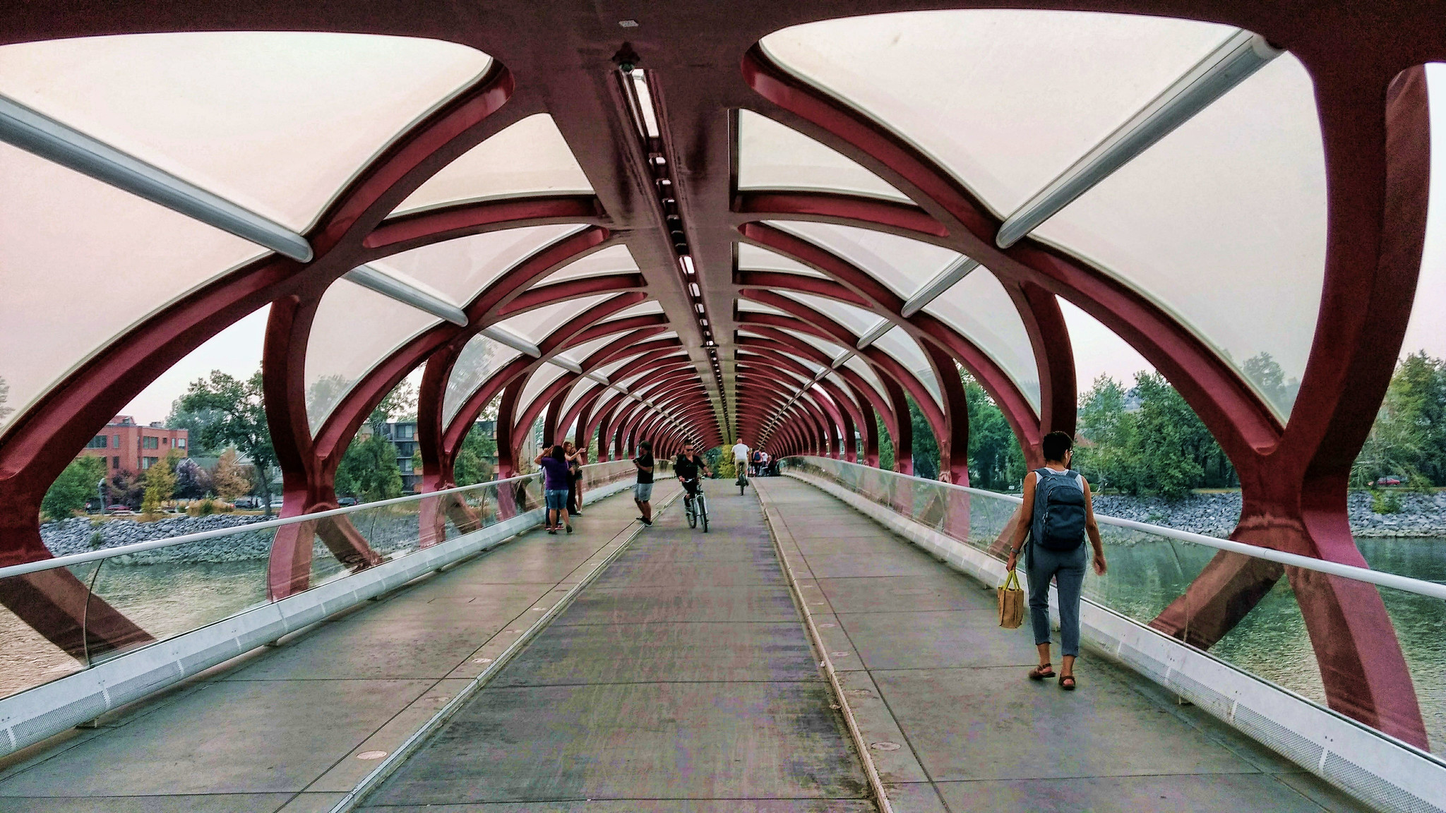
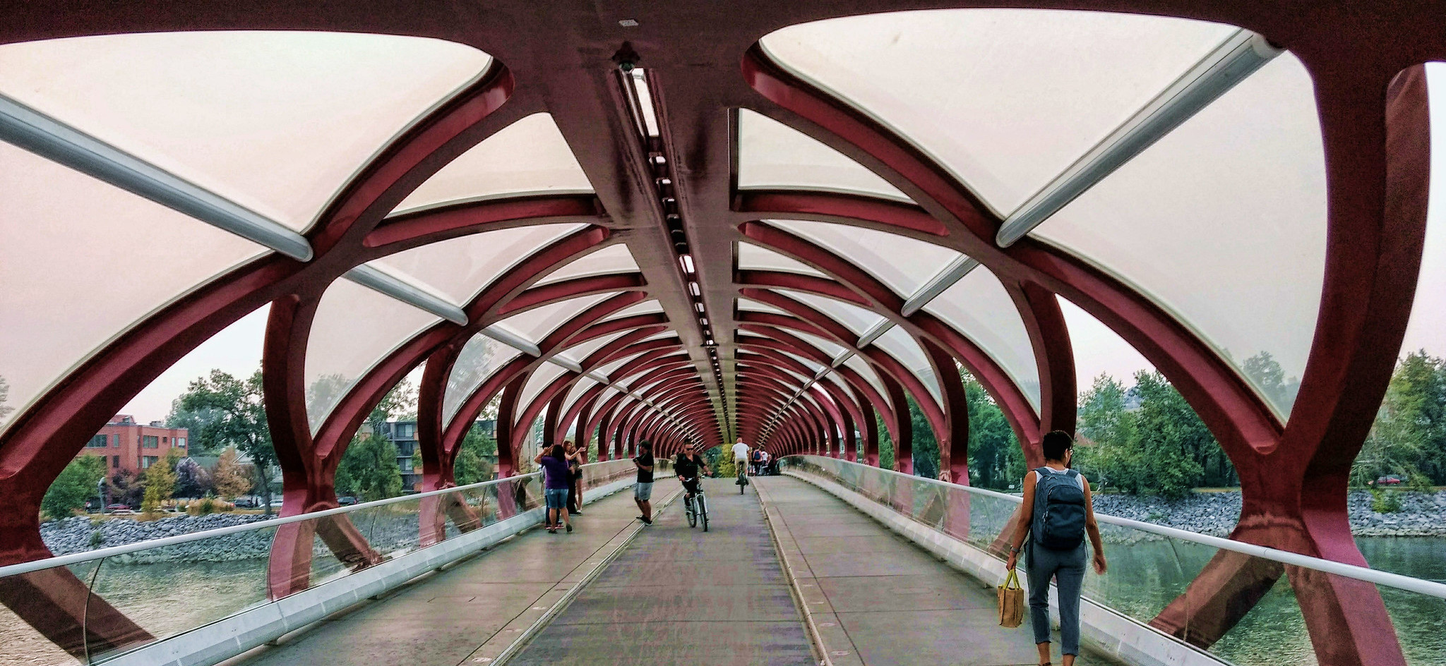
adjusted picture sizes

diff --git a/transitions.html b/transitions.html
@@ -65,9 +65,9 @@
 
 	<div class="vcenterparent">
 		<div class="jumbotron vcenter tinted parallax headerimage"
-			style="background-image:url('images/peacebridge.jpg')">
+			style="background-image:url('images/peacebridge3.jpg')">
 			<div class="col-xxs-6 col-xs-4 col-sm-2"><img src="" class="img-responsive" /></div>
-			<h2 class="hidden-xxs">Transitions</h2>
+			<h2 class="hidden-xxs">Transitions in Diabetes</h2>
 		</div>
 	</div>
 
@@ -85,9 +85,8 @@
 						support. In the winter quarter of 2020, 19 UCSD students explored how to support Dexcom users in these
 						critical moments. They interviewed people with diabetes, mapped their experience and developed new and
 						innovative
-						solutions for the uncovered issues.
+						solutions for the uncovered issues in an 8 week sprint.
 					</p>
-
 
 				</div>
 			</div>
@@ -98,103 +97,105 @@
 		<div class="container">
 			<h5><strong>Teams</strong> </h5>
 
-			<div id="grid" class="grid" style="position: relative; height: 1060px;">
-				<div class="grid-sizer col-xxs-12 col-xs-6 col-md-4"></div>
+			<div id="grid" class="grid">
+			<!-- style="position: relative; height: 1060px;"> -->
+				<div class="grid-sizer col-xxs-12 col-xs-6 col-md-2"></div>
 				<div class="row">
 
-					<div class="grid-item col-xxs-12 col-xs-6 col-md-4">
-						<div class="tall">
-							<div class="box">
-								<div class="square">
-									<div class="box">
-										<img src="images/travel.jpg" class="img-responsive">
-									</div>
-								</div>
-								<div class="caption">
-									<h4>Supplies on the spot</h4>
-									<p>How might we support travelers to find supplies when unexpected events occur?<br><br><span>Stephanie Kim, Braeanne Oribello, Rishabh Singhal, Rou Zhang</span>
-									</p>
-
-								</div>
-							</div>
-							<div class="overlay_white"></div>
-							</a>
-						</div>
-					</div>
-
-					<div class="grid-item col-xxs-12 col-xs-6 col-md-4">
-						<div class="tall">
-							<div class="box">
-								<div class="square">
-									<div class="box">
-										<img src="images/advocate.jpg" class="img-responsive">
-									</div>
-								</div>
-								<div class="caption">
-									<h4>CGM Advocate</h4>
-									<p>How might we empower students with T1D in the classroom while strengthening the relationship between Dexcom and College Diabetes Network? 
-										<br><br><span>Tiffany Do, Michelle Duong, Peter Xu, Angela Zhu</span>
-									</p>
-
-								</div>
-							</div>
-							<div class="overlay_white"></div>
-							</a>
-
-						</div>
-
-					</div>
-
 					
-					
+
 					<div class="grid-item col-xxs-12 col-xs-6 col-md-4 mb-2">
-						<div class="tall">
-							<div class="box">
-								<div class="square">
-									<div class="box">
-										<img src="images/camp.jpg" class="img-responsive">
-									</div>
-								</div>
-								<div class="caption">
-									<h4>"I’m on it"</h4>
-									<p>
-										How might we improve care coordination at camp?
-										<br><br><span>Stacy Kim, Steven Lou, Aaron Truong, Fiona Wong</span>
-									</p>
-
-								</div>
+						<div class="card">
+							
+							<div class="card-title">
+								<h4>Supplies on the spot</h4>
 							</div>
-							<div class="overlay_white"></div>
-							</a>
-						</div>
-					</div>
-
-					<div class="grid-item col-xxs-12 col-xs-6 col-md-4">
-						<div class="tall">
-							<div class="box">
-								<div class="square">
-									<div class="box">
-										<img src="images/mindthegap.jpg" class="img-responsive">
-									</div>
-								</div>
-								<div class="caption">
-									<h4>Mind the Gap</h4>
-									<p>
-										How might we help people manage signal loss? 
-										<br><br><span>Amy An, Neve Foresti, Adam Gomez</span>
-
-									</p>
-
-								</div>
+							<img class="img-responsive" src="images/travel.jpg" alt="Card image cap">
+							<div class="card-body">
+							  <p class="card-text">How might we support travelers to find supplies when unexpected events occur?</p>
 							</div>
-							<div class="overlay_white"></div>
-							</a>
-
+							<div class="card-footer">
+								Stephanie Kim, Braeanne Oribello, Rishabh Singhal, Roy Zhang
+							</div>
 						</div>
-
+						
 					</div>
 
 
+					<div class="grid-item col-xxs-12 col-xs-6 col-md-4 mb-2">
+						<div class="card">
+							
+							<div class="card-title">
+								<h4>CGM Advocate</h4>
+							</div>
+							<img class="img-responsive" src="images/advocate.jpg" alt="Card image cap">
+							<div class="card-body">
+							  <p class="card-text">How might we empower students with a Dexcom CGM in the classroom?</p>
+							</div>
+							<div class="card-footer">
+								Tiffany Do, Michelle Duong, Peter Xu, Angela Zhu
+							</div>
+						</div>
+					</div>
+
+					<div class="grid-item col-xxs-12 col-xs-6 col-md-4 mb-4">
+						<div class="card">
+							
+							<div class="card-title">
+								<h4>Mind the Gap</h4>
+							</div>
+							<img class="img-responsive" src="images/mindthegap.jpg" alt="Card image cap">
+							<div class="card-body">
+							  <p class="card-text">How might we help people manage signal loss?</p>
+							</div>
+							<div class="card-footer">
+								Amy An, Neve Foresti, Adam Gomez
+							</div>
+						</div>
+					</div>
+
+					<div class="grid-item col-xxs-12 col-xs-6 col-md-4 mb-4">
+						<div class="card">
+							
+							<div class="card-title">
+								<h4>Automatic Sensor Replacement</h4>
+							</div>
+							<img class="img-responsive" src="images/selfservice.jpg" alt="Card image cap">
+							<div class="card-body">
+							  <p class="card-text">How might we streamline the process of sensor replacement? </p>
+							</div>
+							<div class="card-footer">
+								Daman Heer, Daokai Lin, Emilia Pokta
+							</div>
+						</div>
+					</div>
+
+					<div class="grid-item col-xxs-12 col-xs-6 col-md-4 mb-2">
+						<div class="card">
+							
+							<div class="card-title">
+								<h4>I'm on it!</h4>
+							</div>
+							<img class="img-responsive" src="images/camp.jpg" alt="Card image cap">
+							<div class="card-body">
+							  <p class="card-text">How might we improve care coordination at camp?</p>
+							</div>
+							<div class="card-footer">
+								Stacy Kim, Steven Lou, Aaron Truong, Fiona Wong
+							</div>
+						</div>
+					</div>
+
+	
+
+					
+
+					
+					
+			
+
+					
+<!-- 
 
 					<div class="grid-item col-xxs-12 col-xs-6 col-md-4">
 						<div class="tall">
@@ -218,7 +219,7 @@
 
 						</div>
 
-					</div>
+					</div> -->
 
 
 
